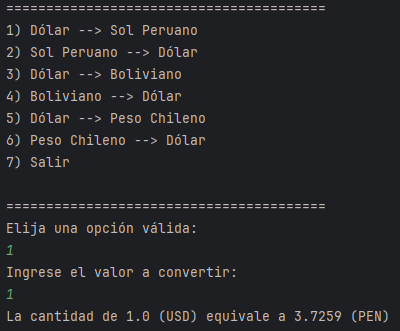
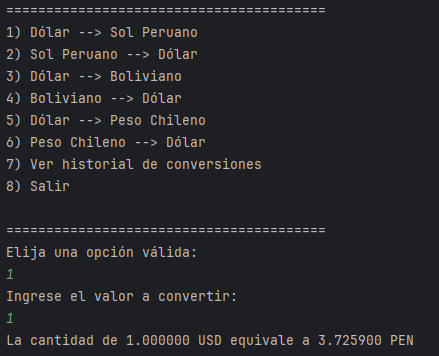
Actualizando README

diff --git a/README.md b/README.md
@@ -18,7 +18,8 @@ El menú despliega las siguientes alternativas:
 4) Boliviano --> Dólar
 5) Dólar --> Peso Chileno
 6) Peso Chileno --> Dólar
-7) Salir
+7) Ver historial de conversiones
+8) Salir
 
 ## Ejemplos
 
@@ -28,13 +29,16 @@ El menú despliega las siguientes alternativas:
 ### Convertir de Sol Peruano a Dólar
 ![Sol_a_Dolar](img/sol_a_dolar.png)
 
+### Historial
+![Sol_a_Dolar](img/historial.png)
+
 ## Proceso de Conversión
 
 Luego de seleccionar una opción válida, se solicita al usuario ingresar el monto a convertir. Posteriormente, se efectúa la conversión utilizando la API y se muestra el resultado.
 
 ## Finalización del Programa
 
-La opción 7) Salir permite cerrar la aplicación de manera controlada.
+La opción 8) Salir permite cerrar la aplicación de manera controlada.
 
 ## Tecnologías Empleadas
 
@@ -51,3 +55,15 @@ La opción 7) Salir permite cerrar la aplicación de manera controlada.
 ## Configuración de API
 
 Antes de ejecutar el programa, asegúrese de configurar la variable API_KEY en ConversorMain.java con su propia clave de API de ExchangeRate-API.
+
+## Historial de Conversiones
+
+La aplicación también permite al usuario ver el historial de todas las conversiones realizadas, proporcionando una visión completa de sus actividades.
+
+## Soporte para Más Monedas
+
+La aplicación ha sido ampliada para soportar una lista más amplia de monedas, permitiendo a los usuarios convertir entre una variedad aún mayor de opciones monetarias.
+
+## Registros con Marca de Tiempo
+
+Los registros de conversión incluyen información sobre qué monedas se convirtieron y en qué momento, utilizando las funciones de la biblioteca java.time para crear registros que registren las conversiones realizadas.
